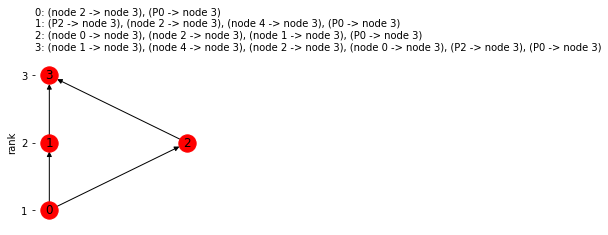
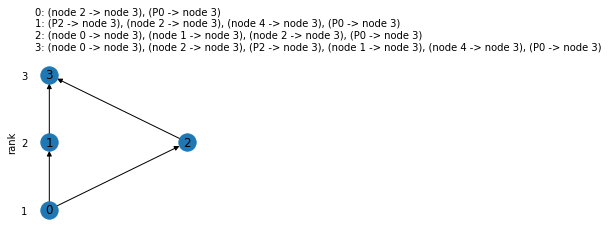
added rank-axis to plots of cyclic flats.

diff --git a/identiflow/identifiability.py b/identiflow/identifiability.py
@@ -516,11 +516,15 @@ def draw_lattice(cyclic_flats):
             pos[frozenset(flat)]=[x_pos,rank]
     labels={node:i for i,node in enumerate(lattice.nodes)}
     
+
     fig,ax=plt.subplots(figsize=[3,3])
+    plt.axis('on')
     nx.draw_networkx(lattice,pos=pos,labels=labels,label=list(labels.keys()),ax=ax)
-    ax.set_xticks([])
     ax.set_ylabel('rank')
     ax.yaxis.set_major_locator(MaxNLocator(integer=True))
+    ax.tick_params(left=False, bottom=False, labelleft=True, labelbottom=False)
+
+    
     plt.box(on=False)
     #plt.tight_layout()
     plt.text(ax.get_xlim()[0],ax.get_ylim()[1],''.join(['{0}: {1}\n'.format(i,', '.join(node)) for node,i in labels.items()]))
